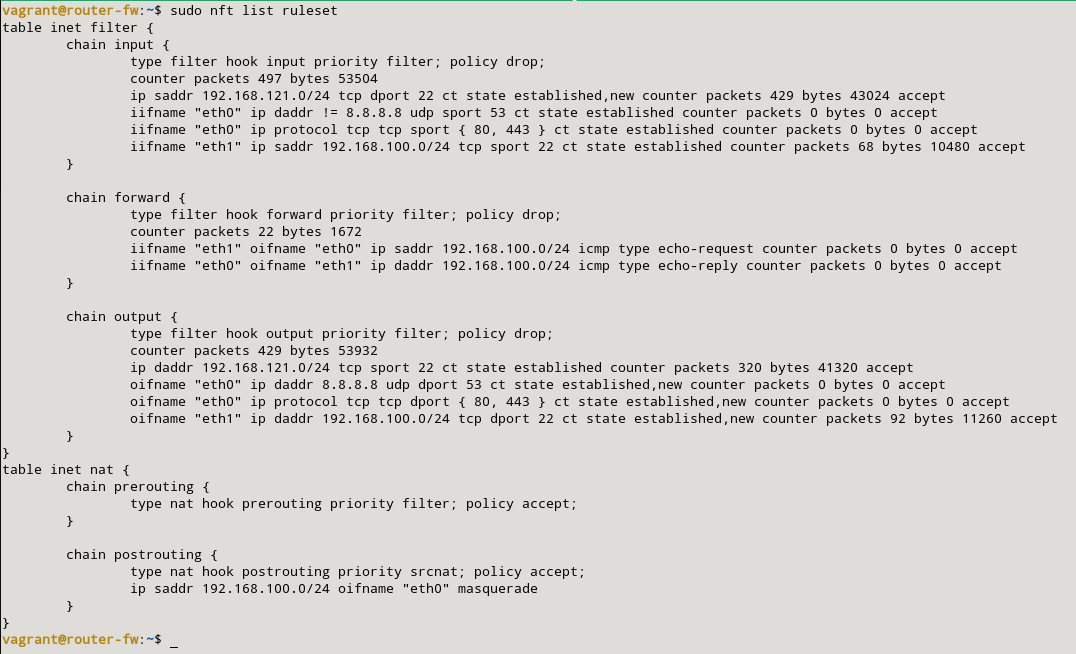
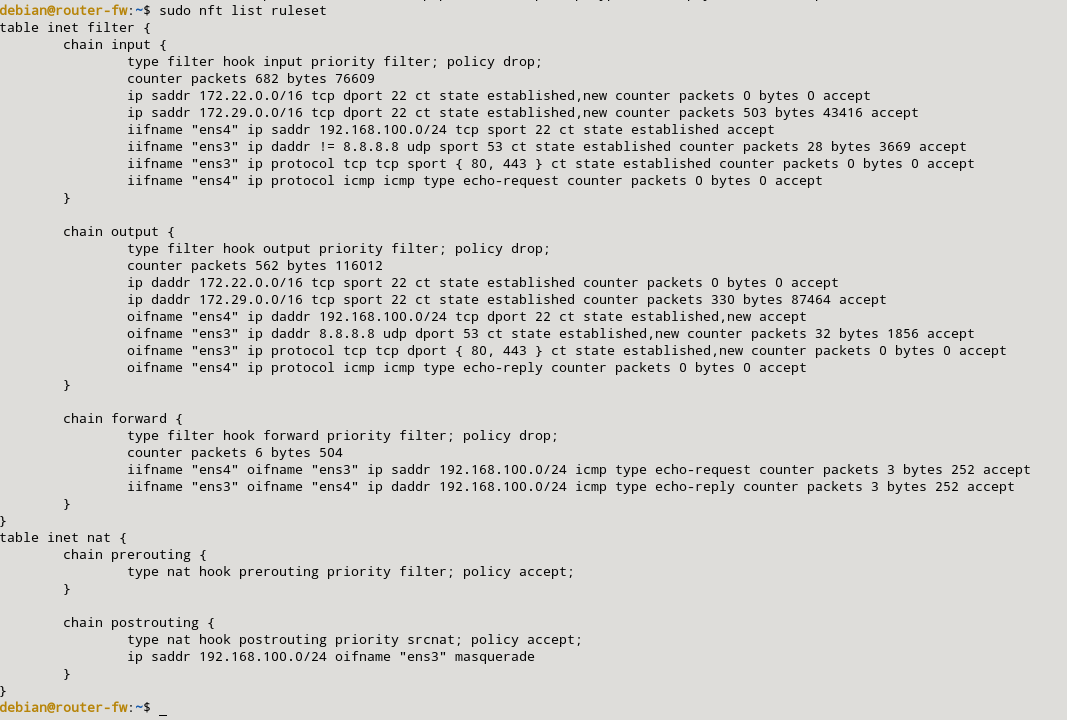
Ejercicio g terminado pero resolviendo problemas de dns :)

diff --git a/Ejercicios/Ejercicioa.md b/Ejercicios/Ejercicioa.md
@@ -1,15 +1,6 @@
 ### a) Permite poder hacer conexiones ssh al exterior desde la máquina cortafuegos.
 
-Primero levantararemos el escenario, y cuando lo levantemos tendremos que acceder a la máquina de vagrant para que tenga la salida por defecto la de la red de vagrant. Para ello, ejecutaremos el siguiente comando:
-
-```sql
-sudo ip route del default via 192.168.121.1
-sudo ip route add default via 192.168.100.2
-```
-
-![FOTOS](img/1.png)
-
-Con esto, no tendremos conexión externa de nuestra máquina mediante esta red. Con esto, pasamos a la configuración del servidor router. Primero deberemos activar el bit de forwarding en el router:
+Primero, pasamos a la configuración del servidor router. Primero deberemos activar el bit de forwarding en el router:
 
 ```sql
 sudo echo 1 > /proc/sys/net/ipv4/ip_forward
@@ -37,14 +28,20 @@ Tras esto, creamos la reglas mediante nftables para poder acceder mediante ssh a
 sudo nft add chain inet nat prerouting { type nat hook prerouting priority 0 \; }
 sudo nft add chain inet nat postrouting { type nat hook postrouting priority 100 \; }
 
-sudo nft add rule inet nat postrouting ip saddr 192.168.100.0/24 oifname "eth0" masquerade
+sudo nft add rule inet nat postrouting ip saddr 192.168.100.0/24 oifname "ens3" masquerade
 
 sudo nft add chain inet filter input { type filter hook input priority 0 \; counter \; policy accept \; }
 sudo  nft add chain inet filter output { type filter hook output priority 0 \; counter \; policy accept \; }
 sudo  nft add chain inet filter forward { type filter hook forward priority 0 \; counter \; policy accept \; }
 
-sudo nft add rule inet filter input ip saddr 192.168.121.0/24 tcp dport 22 ct state new,established counter accept
-sudo  nft add rule inet filter output ip daddr 192.168.121.0/24 tcp sport 22 ct state established counter accept
+sudo nft add rule inet filter input ip saddr 172.22.0.0/16 tcp dport 22 ct state new,established counter accept
+sudo nft add rule inet filter output ip daddr 172.22.0.0/16 tcp sport 22 ct state established counter accept
+
+sudo nft add rule inet filter input ip saddr 172.29.0.0/16 tcp dport 22 ct state new,established counter accept
+sudo nft add rule inet filter output ip daddr 172.29.0.0/16 tcp sport 22 ct state established counter accept
+
+sudo nft add rule inet filter output oifname "ens4" ip daddr 192.168.100.0/24 tcp dport 22 ct state new,established accept
+sudo nft add rule inet filter input iifname "ens4" ip saddr 192.168.100.0/24 tcp sport 22 ct state established accept
 
 sudo  nft chain inet filter input { policy drop \; }
 sudo  nft chain inet filter output { policy drop \; }
@@ -57,8 +54,8 @@ Para ver que se han creado las reglas ejecutaremos este comando:
 sudo nft list ruleset
 ```
 
+![FOTOS](img/1.png)
+
+Y comprobamos que nos accedea nuestra máquina router y a la máquina LAN:
+
 ![FOTOS](img/2.png)
-
-Y comprobamos que nos accedea nuestra máquina router:
-
-![FOTOS](img/3.png)

diff --git a/Ejercicios/Ejercicioh.md b/Ejercicios/Ejercicioh.md
@@ -1,5 +1,9 @@
 ### h) Instala un servidor de correos en la máquina de la LAN. Permite el acceso desde el exterior y desde el cortafuegos al servidor de correos. Para probarlo puedes ejecutar un telnet al puerto 25 tcp.
 
+sudo nft add rule inet filter forward iifname "ens4" oifname "ens3" ip saddr 192.168.100.0/24 udp dport 53 ct state new,established counter accept
+sudo nft add rule inet filter forward iifname "ens3" oifname "ens4" ip daddr 192.168.100.0/24 udp sport 53 ct state established counter accept
+
+
 Como nos pide que instalamos un servidor de correos en nuetra máquina LAN, lo que haremos será instalar postfix en dichha máquina primero de todo. Los comandos son los siguientes:
 
 ```sql
@@ -7,17 +11,19 @@ sudo apt update
 sudo apt install postfix 
 ```
 
-Cuando lo tengamos habilitamos las peticiones en el puerto 25 con las siguientes reglas:
+Cuando lo tengamos habilitamos las peticiones en el puerto 25 y las reglas dnat para hacer las peticiones con las siguientes reglas:
 
 ```sql
-sudo nft add rule inet filter forward iifname "eth1" oifname "eth0" tcp dport 25 counter accept
-sudo nft add rule inet filter forward iifname "eth0" oifname "eth1" tcp sport 25 counter accept
+sudo nft add rule inet nat prerouting iifname "ens3" tcp dport 25 counter dnat ip to 192.168.100.10
+
+sudo nft add rule inet filter forward iifname "ens3" oifname "ens4" ip daddr 192.168.100.0/24 tcp dport 25 ct state new,established counter accept
+sudo nft add rule inet filter forward iifname "ens4" oifname "ens3" ip saddr 192.168.100.0/24 tcp sport 25 ct state established counter accept
 ```
 
 Las reglas quedarán de la siguiente manera:
 
-![FOTOS](img/16.png)
+![FOTOS](img/14.png)
 
 La prueba de que este cortafuegos funciona será haciendo desde mi host una petición a mi máquina LAN:
 
-![FOTOS](img/17.png)
+![FOTOS](img/15.png)

diff --git a/Ejercicios/Ejercicioe.md b/Ejercicios/Ejercicioe.md
@@ -1,25 +1,12 @@
 ### e) Permitimos el ssh desde el cortafuegos a la LAN.
 
-Para este apartado, tendremos que permitir mediante el cortafuegos acceder por ssh a la máquina LAN. Para ello, aplicaremos la siguiente regla:
+Para este apartado, tendremos que permitir mediante el cortafuegos acceder por ssh a la máquina LAN. Para ello, aplicaremos la siguiente regla (la tenemos hecha en el primer ejercicio):
 
 ```sql
-sudo nft add rule inet filter output oifname "eth1" ip daddr 192.168.100.0/24 tcp dport 22 ct state new,established counter accept
-sudo nft add rule inet filter input iifname "eth1" ip saddr 192.168.100.0/24 tcp sport 22 ct state established counter accept
+sudo nft add rule inet filter output oifname "ens4" ip daddr 192.168.100.0/24 tcp dport 22 ct state new,established counter accept
+sudo nft add rule inet filter input iifname "ens4" ip saddr 192.168.100.0/24 tcp sport 22 ct state established counter accept
 ```
 
-Cuando lo tengamos, pasamos a ver que se ha creado correctamente.
+Como las reglas ya esta puesta, comprobamos que nos accede desde el router al servidor para ver que funciona esta regla:
 
-![FOTOS](img/10.png)
-
-Para comprobar que funciona correctamente, primero tendremos que copiar la clave de vagrant de máquina LAN al authorized_keys de mi máquina cortafuegos, seguido de esto, accedemos mediante ssh desde el cortafuegos a la LAN. 
-
-El comando que he utilizado para copiar es el siguiente y despues el segundo, guarda la clave en el fichero authorized_keys en mi máquina router:
-
-```sql
-scp -i .vagrant/machines/router_fw/libvirt/private_key  .vagrant/machines/lan/libvirt/private_key vagrant@192.168.121.25:.ssh/
-cd .ssh/
-mv private_key clave_lan
-ssh -i clave_lan vagrant@192.168.100.10
-```
-
-![FOTOS](img/11.png)
+![FOTOS](img/9.png)

diff --git a/Ejercicios/Ejerciciog.md b/Ejercicios/Ejerciciog.md
@@ -1,16 +1,16 @@
 ### g) Permite realizar conexiones ssh desde los equipos de la LAN.
 
-Para poder ssh a alguna máquina del mismo exterior (por ejemplo en mi caso he hecho que funcione el ssh a las máquinas de las red de vagrant), tendremos que añadir las siguientes reglas:
+Para poder ssh a alguna máquina del mismo exterior (por ejemplo en mi caso he hecho que funcione el ssh a las máquinas de las red de openstack), tendremos que añadir las siguientes reglas:
 
 ```sql
-sudo nft add rule inet filter forward iifname "eth1" oifname "eth0" ip saddr 192.168.100.0/24 tcp dport 22 counter accept
-sudo nft add rule inet filter forward iifname "eth0" oifname "eth1" ip saddr 192.168.121.0/24 ct state established,related counter accept
+sudo nft add rule inet filter forward iifname "ens4" oifname "ens3" ip saddr 192.168.100.0/24 tcp dport 22 counter accept
+sudo nft add rule inet filter forward iifname "ens3" oifname "ens4" ip saddr 172.22.0.0/16 ct state established,related counter accept
 ```
 
 Las reglas quedarán de la siguiente manera:
 
-![FOTOS](img/14.png)
+![FOTOS](img/12.png)
 
-La prueba de que este cortafuegos funciona accediendo a mi host:
+La prueba de que este cortafuegos funciona accediendo a mi máquina de odin:
 
-![FOTOS](img/15.png)
+![FOTOS](img/13.png)

diff --git a/Ejercicios/Ejerciciob.md b/Ejercicios/Ejerciciob.md
@@ -3,14 +3,14 @@
 Para poder realizar consultas desde la máquina de corta fuegos solo al servidor 8.8.8.8, deberemos crear las siguientes reglas:
 
 ```sql
-sudo nft add rule inet filter output oifname "eth0" ip daddr 8.8.8.8 udp dport 53 ct state new,established counter accept
-sudo nft add rule inet filter input iifname "eth0" ip daddr != 8.8.8.8 udp sport 53 ct state established counter accept
+sudo nft add rule inet filter output oifname "ens3" ip daddr 8.8.8.8 udp dport 53 ct state new,established counter accept
+sudo nft add rule inet filter input iifname "ens3" ip daddr != 8.8.8.8 udp sport 53 ct state established counter accept
 ```
 
 Esta reglas nos aceptan el tráfico a las peticiones a nuestro servidor DNS que es 8.8.8.8 y si no es ese el servidor, lo rechaza. Las reglas quedarán de esta manera:
 
-![FOTOS](img/4.png)
+![FOTOS](img/3.png)
 
 Para hacer la prueba, haremos la petición a nuestro servidor sobre www.marca.es y veremos que nos muestra respuesta. También veremos que si lo hacemos a otro, nos dará fallo (como por ejemplo 1.1.1.1).
 
-![FOTOS](img/5.png)
+![FOTOS](img/4.png)

diff --git a/Ejercicios/Ejerciciod.md b/Ejercicios/Ejerciciod.md
@@ -3,14 +3,14 @@
 Para que todos los equipos de la red local, con rango 192.168.100.0/24, tenga conexión al exterior tendremos que añadir la siguiente regla:
 
 ```sql
-sudo nft add rule inet filter forward iifname "eth1" oifname "eth0" ip saddr 192.168.100.0/24 icmp type echo-request counter accept
-sudo nft add rule inet filter forward iifname "eth0" oifname "eth1" ip daddr 192.168.100.0/24 icmp type echo-reply counter accept
+sudo nft add rule inet filter forward iifname "ens4" oifname "ens3" ip saddr 192.168.100.0/24 icmp type echo-request counter accept
+sudo nft add rule inet filter forward iifname "ens3" oifname "ens4" ip daddr 192.168.100.0/24 icmp type echo-reply counter accept
 ```
 
 Cuando lo tengamos, pasamos a ver que se ha creado correctamente.
 
-![FOTOS](img/8.png)
+![FOTOS](img/7.png)
 
 Para comprobar que funciona correctamente, le hecho un simple ping a 8.8.8.8 desde mi máquina LAN para ver si tengo conexión:
 
-![FOTOS](img/9.png)
+![FOTOS](img/8.png)

diff --git a/Ejercicios/Ejercicioc.md b/Ejercicios/Ejercicioc.md
@@ -3,14 +3,14 @@
 Para poder permitir que la máquina cortafuegos pueda navegar por https, deberemos añadir el siguiente comando con esta regla:
 
 ```sql
-sudo nft add rule inet filter output oifname "eth0" ip protocol tcp tcp dport { 80,443 } ct state new,established counter accept
-sudo nft add rule inet filter input iifname "eth0" ip protocol tcp tcp sport { 80,443 } ct state established counter accept
+sudo nft add rule inet filter output oifname "ens3" ip protocol tcp tcp dport { 80,443 } ct state new,established counter accept
+sudo nft add rule inet filter input iifname "ens3" ip protocol tcp tcp sport { 80,443 } ct state established counter accept
 ```
 
 Cuando lo tengamos, pasamos a ver que se ha creado correctamente.
 
-![FOTOS](img/6.png)
+![FOTOS](img/5.png)
 
 Para comprobar que funciona correctamente, le hecho una petición a wikipedia mediante este protocolo y vemos que funciona de manera correcta y adecuada:
 
-![FOTOS](img/7.png)
+![FOTOS](img/6.png)

diff --git a/Ejercicios/Ejercicioi.md b/Ejercicios/Ejercicioi.md
@@ -1,1 +1,18 @@
 ### i) Permite hacer conexiones ssh desde exterior a la LAN.
+
+Cuando lo tengamos habilitamos las peticiones en el puerto 22 y las reglas dnat para hacer las peticiones con las siguientes reglas:
+
+```sql
+sudo nft add rule inet nat prerouting iifname "eth0" tcp dport 22 counter dnat ip to 192.168.100.10
+
+sudo nft add rule inet filter forward iifname "eth0" oifname "eth1" ip daddr 192.168.100.0/24 tcp dport 22 ct state new,established counter accept
+sudo nft add rule inet filter forward iifname "eth1" oifname "eth0" ip saddr 192.168.100.0/24 tcp sport 22 ct state established counter accept
+```
+
+Las reglas quedarán de la siguiente manera:
+
+![FOTOS](img/16.png)
+
+La prueba de que este cortafuegos funciona será haciendo desde mi host una petición a mi máquina LAN:
+
+![FOTOS](img/17.png)

diff --git a/Ejercicios/Ejerciciof.md b/Ejercicios/Ejerciciof.md
@@ -3,14 +3,14 @@
 Para poder hacer ping desde mi máquina LAN a mi máquina cortafuegos, tendremos que habilitar las siguientes reglas: 
 
 ```sql
-sudo nft add rule inet filter input iifname "eth1" ip protocol icmp icmp type echo-request counter accept
-sudo nft add rule inet filter output oifname "eth1" ip protocol icmp icmp type echo-reply counter accept
+sudo nft add rule inet filter input iifname "ens4" ip protocol icmp icmp type echo-request counter accept
+sudo nft add rule inet filter output oifname "ens4" ip protocol icmp icmp type echo-reply counter accept
 ```
 
 Las reglas quedarán de la siguiente manera:
 
-![FOTOS](img/12.png)
+![FOTOS](img/10.png)
 
 La prueba de que este cortafuegos funciona:
 
-![FOTOS](img/13.png)
+![FOTOS](img/11.png)
